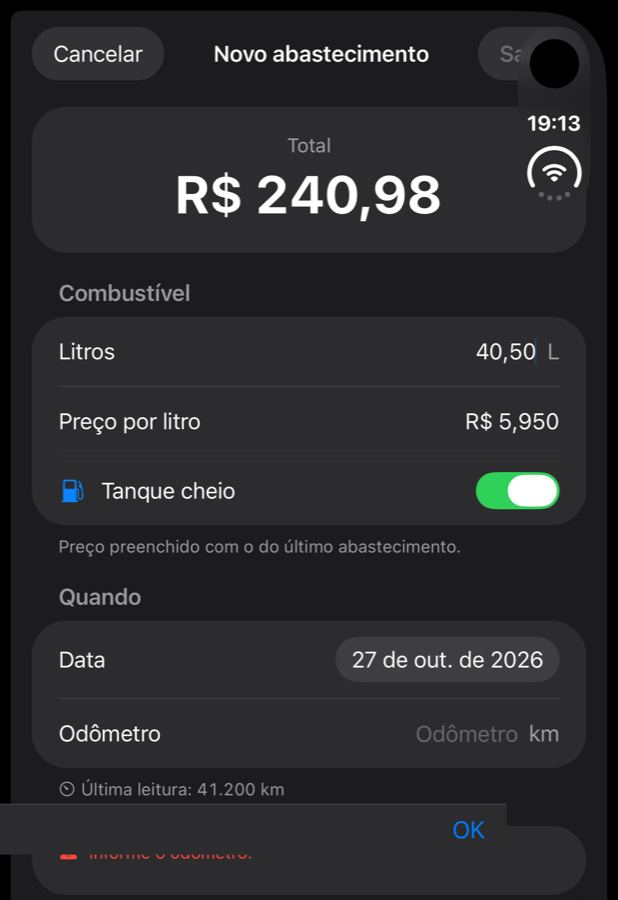
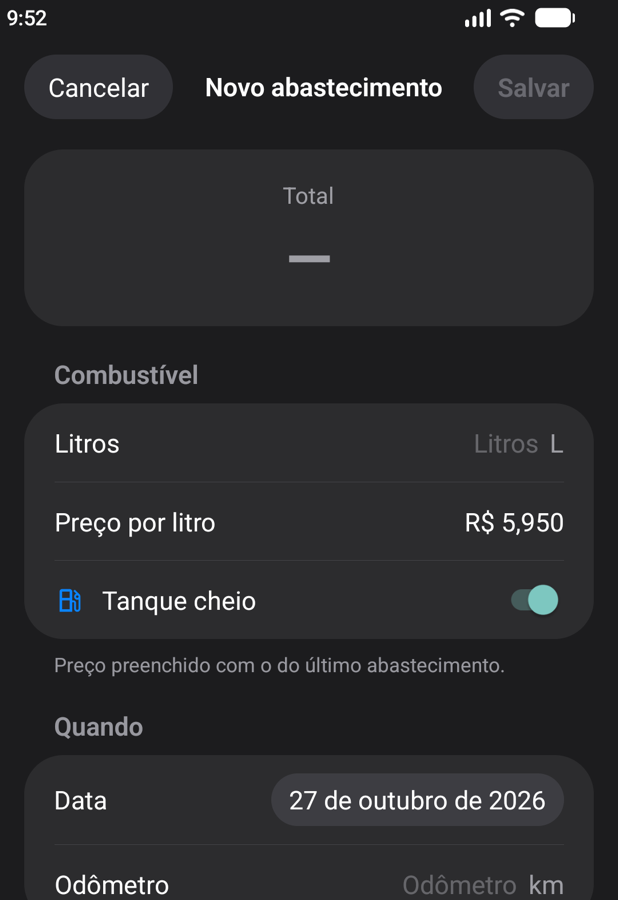
feat: layout fixes

diff --git a/src/presentation/maintenance/ServiceKindGrid.tsx b/src/presentation/maintenance/ServiceKindGrid.tsx
@@ -5,12 +5,14 @@ import { Pressable, Text, View } from 'react-native';
 import { serviceKinds, type ServiceKind } from '@/domain/entities/ServiceKind';
 
 import { serviceKindLabel, serviceKindSymbol } from '../common/Display';
+import { gridColumns, gridRows } from '../common/GridLayout';
 import { useTheme } from '../common/Palette';
 import { SymbolIcon } from '../common/components/SymbolIcon';
 import { Typography } from '../common/components/Typography';
 
 const minimumWidth = 96;
 const spacing = 8;
+const cellBox = { flex: 1, padding: 4 } as const;
 
 export function ServiceKindGrid({
     selection,
@@ -21,50 +23,50 @@ export function ServiceKindGrid({
 }) {
     const theme = useTheme();
     const [width, setWidth] = useState(0);
-    const columns = Math.max(1, Math.floor((width + spacing) / (minimumWidth + spacing)));
-    const itemWidth = width === 0 ? minimumWidth : (width - spacing * (columns - 1)) / columns;
+    const rows = width === 0 ? [] : gridRows(serviceKinds, gridColumns(width, minimumWidth, spacing));
 
     return (
-        <View
-            onLayout={(event) => setWidth(event.nativeEvent.layout.width)}
-            style={{ flexDirection: 'row', flexWrap: 'wrap', gap: spacing }}
-        >
-            {serviceKinds.map((kind) => {
-                const isSelected = kind === selection;
-                const color = isSelected ? '#FFFFFF' : theme.label;
-                return (
-                    <Pressable
-                        key={kind}
-                        accessibilityRole="button"
-                        accessibilityState={{ selected: isSelected }}
-                        accessibilityLabel={serviceKindLabel(kind)}
-                        onPress={() => {
-                            if (kind !== selection) void Haptics.selectionAsync();
-                            onChange(kind);
-                        }}
-                        style={{
-                            width: itemWidth,
-                            minHeight: 72,
-                            gap: 6,
-                            padding: 4,
-                            alignItems: 'center',
-                            justifyContent: 'center',
-                            borderRadius: 12,
-                            backgroundColor: isSelected ? theme.service : theme.fill
-                        }}
-                    >
-                        <SymbolIcon name={serviceKindSymbol(kind)} size={22} color={color} />
-                        <Text
-                            numberOfLines={2}
-                            adjustsFontSizeToFit
-                            minimumFontScale={0.8}
-                            style={[Typography.caption, { fontWeight: '500', color, textAlign: 'center' }]}
-                        >
-                            {serviceKindLabel(kind)}
-                        </Text>
-                    </Pressable>
-                );
-            })}
+        <View onLayout={(event) => setWidth(event.nativeEvent.layout.width)} style={{ gap: spacing }}>
+            {rows.map((row, rowIndex) => (
+                <View key={rowIndex} style={{ flexDirection: 'row', gap: spacing }}>
+                    {row.map((kind, columnIndex) => {
+                        if (kind === null) return <View key={`empty-${columnIndex}`} style={cellBox} />;
+                        const isSelected = kind === selection;
+                        const color = isSelected ? '#FFFFFF' : theme.label;
+                        return (
+                            <Pressable
+                                key={kind}
+                                accessibilityRole="button"
+                                accessibilityState={{ selected: isSelected }}
+                                accessibilityLabel={serviceKindLabel(kind)}
+                                onPress={() => {
+                                    if (kind !== selection) void Haptics.selectionAsync();
+                                    onChange(kind);
+                                }}
+                                style={{
+                                    ...cellBox,
+                                    minHeight: 72,
+                                    gap: 6,
+                                    alignItems: 'center',
+                                    justifyContent: 'center',
+                                    borderRadius: 12,
+                                    backgroundColor: isSelected ? theme.service : theme.fill
+                                }}
+                            >
+                                <SymbolIcon name={serviceKindSymbol(kind)} size={22} color={color} />
+                                <Text
+                                    numberOfLines={2}
+                                    adjustsFontSizeToFit
+                                    minimumFontScale={0.8}
+                                    style={[Typography.caption, { fontWeight: '500', color, textAlign: 'center' }]}
+                                >
+                                    {serviceKindLabel(kind)}
+                                </Text>
+                            </Pressable>
+                        );
+                    })}
+                </View>
+            ))}
         </View>
     );
 }

diff --git a/src/presentation/common/components/FormSheet.tsx b/src/presentation/common/components/FormSheet.tsx
@@ -1,5 +1,6 @@
 import type { ReactNode } from 'react';
-import { ActivityIndicator, Modal, Pressable, ScrollView, Text, View } from 'react-native';
+import { ActivityIndicator, Modal, Platform, Pressable, ScrollView, Text, View } from 'react-native';
+import { SafeAreaProvider, useSafeAreaInsets } from 'react-native-safe-area-context';
 
 import { t } from '../../i18n/i18n';
 import type { FormState } from '../FormState';
@@ -61,8 +62,15 @@ function SheetHeader({ title, state, canSave, onSave, onCancel }: Omit<Props, 'c
 
 function SheetBody(props: Props) {
     const theme = useTheme();
+    const insets = useSafeAreaInsets();
     return (
-        <View style={{ flex: 1, backgroundColor: theme.background }}>
+        <View
+            style={{
+                flex: 1,
+                backgroundColor: theme.background,
+                paddingTop: Platform.OS === 'android' ? insets.top : 0
+            }}
+        >
             <SheetHeader {...props} />
             <ScrollView
                 keyboardDismissMode="interactive"
@@ -80,9 +88,11 @@ function SheetBody(props: Props) {
 export function FormSheet(props: Props) {
     return (
         <Modal visible animationType="slide" presentationStyle="pageSheet" onRequestClose={props.onCancel}>
-            <ElevationContext.Provider value>
-                <SheetBody {...props} />
-            </ElevationContext.Provider>
+            <SafeAreaProvider>
+                <ElevationContext.Provider value>
+                    <SheetBody {...props} />
+                </ElevationContext.Provider>
+            </SafeAreaProvider>
         </Modal>
     );
 }

diff --git a/test/presentation/gridLayout.test.ts b/test/presentation/gridLayout.test.ts
@@ -1,0 +1,29 @@
+import { gridColumns, gridRows } from '@/presentation/common/GridLayout';
+
+describe('Grid layout', () => {
+    test('as many columns fit as the minimum width allows', () => {
+        expect(gridColumns(0, 96, 8)).toBe(1);
+        expect(gridColumns(Number.NaN, 96, 8)).toBe(1);
+        expect(gridColumns(50, 96, 8)).toBe(1);
+        expect(gridColumns(200, 96, 8)).toBe(2);
+        expect(gridColumns(304, 96, 8)).toBe(3);
+        expect(gridColumns(303.6190490722656, 96, 8)).toBe(2);
+        expect(gridColumns(361.1428527832031, 96, 8)).toBe(3);
+    });
+
+    test('items are split into full rows and the last row is padded', () => {
+        expect(gridRows([], 3)).toEqual([]);
+        expect(gridRows([1, 2, 3, 4, 5], 3)).toEqual([
+            [1, 2, 3],
+            [4, 5, null]
+        ]);
+        expect(gridRows([1, 2, 3], 3)).toEqual([[1, 2, 3]]);
+    });
+
+    test.each([0, -2, Number.NaN, Number.POSITIVE_INFINITY, Number.NEGATIVE_INFINITY])(
+        'an invalid column count (%p) falls back to one column',
+        (columns) => {
+            expect(gridRows([1, 2], columns)).toEqual([[1], [2]]);
+        }
+    );
+});

diff --git a/src/app/_layout.tsx b/src/app/_layout.tsx
@@ -1,7 +1,7 @@
 import { DarkTheme, DefaultTheme, SplashScreen, Stack, ThemeProvider } from 'expo-router';
 import { StatusBar } from 'expo-status-bar';
 import { useEffect, useState } from 'react';
-import { useColorScheme } from 'react-native';
+import { Platform, useColorScheme } from 'react-native';
 import { GestureHandlerRootView } from 'react-native-gesture-handler';
 
 import { AppDependencies } from '@/composition/AppDependencies';
@@ -45,7 +45,7 @@ export default function KmaisApp() {
                     <Stack
                         screenOptions={{
                             headerLargeTitle: true,
-                            headerTransparent: true,
+                            headerTransparent: Platform.OS === 'ios',
                             headerLargeTitleShadowVisible: false,
                             headerShadowVisible: false,
                             headerBackButtonDisplayMode: 'minimal',

diff --git a/src/presentation/common/GridLayout.ts b/src/presentation/common/GridLayout.ts
@@ -1,0 +1,15 @@
+export function gridColumns(width: number, minimumWidth: number, spacing: number): number {
+    if (!Number.isFinite(width) || width <= 0) return 1;
+    return Math.max(1, Math.floor((width + spacing) / (minimumWidth + spacing)));
+}
+
+export function gridRows<Item>(items: readonly Item[], columns: number): (Item | null)[][] {
+    const size = Number.isFinite(columns) ? Math.max(1, Math.floor(columns)) : 1;
+    const rows: (Item | null)[][] = [];
+    for (let start = 0; start < items.length; start += size) {
+        const row: (Item | null)[] = items.slice(start, start + size);
+        while (row.length < size) row.push(null);
+        rows.push(row);
+    }
+    return rows;
+}

diff --git a/docs/decisions.md b/docs/decisions.md
@@ -318,6 +318,33 @@ Fuel is teal and services indigo everywhere (rows, charts, badges), using the iO
 colors on both platforms. Status uses green,
 orange and red, so fuel deliberately avoids orange.
 
+### Transparent large-title header on iOS only
+
+The Stack header is transparent only on iOS (`headerTransparent: Platform.OS === 'ios'`). On iOS
+the scroll views use `contentInsetAdjustmentBehavior="automatic"`, which pushes the content
+below the large title and lets it scroll under the blurred bar. That prop does nothing on
+Android, so a transparent header there draws the title and back arrow on top of the first
+card. Android gets a solid header in the background color and the content starts below it.
+`headerLargeTitle` stays on every screen; Android ignores it.
+
+### Form sheets add the status bar inset on Android
+
+`FormSheet` opens a `Modal` with `presentationStyle="pageSheet"`. iOS shows it as a card below
+the status bar; Android shows it full screen and edge to edge, so the Cancel / title / Save bar
+would sit under the status bar. On Android the sheet pads its top by the safe-area top inset.
+The modal gets its own `SafeAreaProvider` because on Android a `Modal` is a separate window and
+the app's provider does not report its insets. iOS keeps no extra padding.
+
+### Service kind grid is built from rows, not `flexWrap`
+
+`ServiceKindGrid` used to give each cell a computed fractional width inside a wrapping row.
+Android rounds layout to physical pixels, so three cells plus gaps could end up a fraction wider
+than the container and the third cell wrapped, leaving two columns. The grid now splits the kinds
+into rows (`gridRows`) and each cell is `flex: 1`, so Yoga divides the row itself and it can never
+overflow; the last row is padded with empty cells so its items keep the same width. Yoga adds
+padding on top of `flexBasis: 0`, so the empty cells share the real cells' box style (`cellBox`:
+`flex: 1` plus the same padding); otherwise the real cells in the last row grow wider.
+
 ## Tooling
 
 ### Four specialized AI agents instead of one
